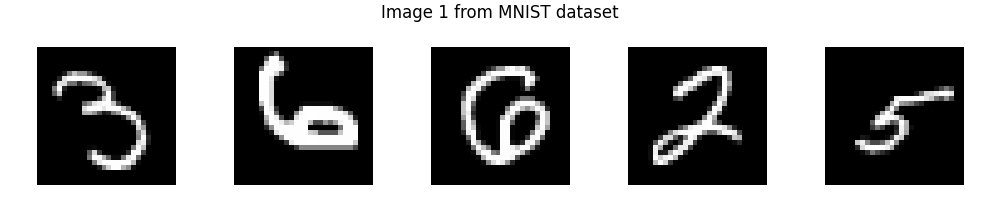
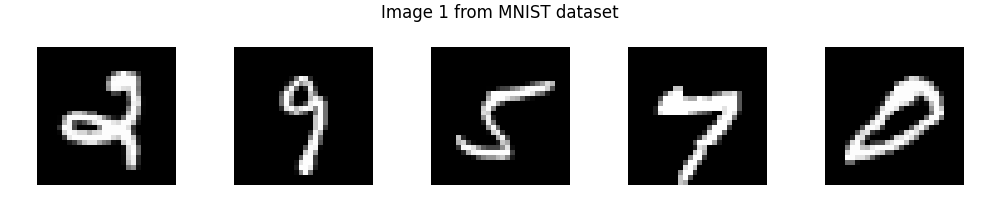
NRT DCGans without and with wassterstein

diff --git a/NRT/NRT_GANs/test.py b/NRT/NRT_GANs/test.py
@@ -759,6 +759,162 @@ def test_cgan_gan_mnist():
     plt.close()
 
 
+def test_dcgan_mnist():
+    """
+    Test DCGAN on MNIST dataset with default loss function
+    
+    This function initializes a DCGAN with default configuration,
+    and tests its forward pass and loss computation,
+    and then verify the sampling (with ema)
+    """
+    print("Loading MNIST dataset...")
+    mnist_loader = load_mnist(batch_size=128, downsample=(16, 16), normalize=True, flatten=False, train=True)
+
+    # Plot real data distribution
+    # first_numbers = next(iter(mnist_loader))[0][:5]  # Get the first 5 samples of the first batch
+    # print(first_numbers.shape)  # torch.Size([5, 1, 16, 16]) for 16x16 downsampled images
+    # plot_images(first_numbers, 5, save_path=os.path.join(MNIST_OUTPUT_DIR,"mnist_real.png"), title="Image 1 from MNIST dataset")
+
+    # Define GAN configuration
+    config = GANConfig(
+        architecture="DCGAN",
+        loss="Default",
+        latent_dim=32,
+        hidden_dims=[128, 64],
+        image_size=16,
+        image_channels=1,
+        kernel_size=4,
+        stride=2,
+        padding=1,
+        dropout=0.0,
+        batch_norm=True,
+        spectral_norm_on=False, # too slow otherswise for this test
+        learning_rate=2e-4,
+        step_size=20,
+        weight_decay=0.0,
+        beta1=0.5,
+        beta2=0.999,    
+        is_ema=False,
+        ema_decay=0.999
+    )
+    print("GAN configuration:")
+    print(config)
+    print()
+
+    # Initialize GAN
+    device = "cpu"
+    gan = GAN(config, device=device)
+    print("GAN Architecture:")
+    print(gan)
+    print()
+
+    # Train the model for a few epochs then plot the generated samples, then repeat the process
+    epochs = 6
+    nb_reps = 5
+    TEST_OUTPUT_DIR = os.path.join(MNIST_OUTPUT_DIR, "dcgan_mnist")
+    os.makedirs(TEST_OUTPUT_DIR, exist_ok=True)
+    G_losses = []
+    D_losses = []
+    for rep in range(nb_reps):
+        print(f"Training DCGAN on MNIST dataset - Rep {rep+1}/{nb_reps} - Epochs: {epochs*rep} to {epochs*(rep+1)}")
+        history = gan.fit(mnist_loader, epochs=epochs, verbose=False)
+        G_losses.extend([hist.G_loss for hist in history])
+        D_losses.extend([hist.D_loss for hist in history])
+        samples = gan.sample(5).numpy()
+        plot_images(samples, 5, save_path=os.path.join(TEST_OUTPUT_DIR,f"mnist_gen_rep{rep+1}.png"), title=f"Generated Images from DCGAN - Rep {rep+1}")
+        print()
+
+    # Plot loss history
+    plt.figure()    
+    plt.plot(G_losses, label="Generator Loss", color='red')
+    plt.plot(D_losses, label="Discriminator Loss", color='blue')
+    plt.legend()
+    plt.title("DCGAN Loss History on MNIST dataset")
+    plt.xlabel("Epochs")
+    plt.ylabel("Loss")
+    plt.savefig(os.path.join(TEST_OUTPUT_DIR,"loss_history.png"))
+    plt.close()
+
+
+def test_dcgan_wasserstein_mnist():
+    """
+    Test DCGAN on MNIST dataset with wasserstein loss function and gradient penalty
+
+    This function initializes a DCGAN with wasserstein loss and gradient penalty configuration,
+    and tests its forward pass and loss computation,
+    and then verify the sampling (without ema)
+    """
+    print("Loading MNIST dataset...")
+    mnist_loader = load_mnist(batch_size=128, downsample=(16, 16), normalize=True, flatten=False, train=True)
+
+    # Plot real data distribution
+    # first_numbers = next(iter(mnist_loader))[0][:5]  # Get the first 5 samples of the first batch
+    # print(first_numbers.shape)  # torch.Size([5, 256]) for 16x16 downsampled images
+    # plot_images(first_numbers, 5, save_path=os.path.join(MNIST_OUTPUT_DIR,"mnist_real.png"), title="Image 1 from MNIST dataset")
+
+    # Define GAN configuration
+    config = GANConfig(
+        architecture="DCGAN",
+        loss="Wasserstein",
+        latent_dim=32,
+        hidden_dims=[128, 64],
+        image_size=16,
+        image_channels=1,
+        kernel_size=4,
+        stride=2,
+        padding=1,
+        weight_clip=0.01,
+        gradient_penalty_lambda=10.0,
+        n_critic=5,
+        dropout=0.0,
+        batch_norm=True,
+        spectral_norm_on=False, # too slow otherswise for this test
+        learning_rate=1e-4,
+        step_size=20,
+        weight_decay=0.0,
+        beta1=0.0,
+        beta2=0.9,
+        is_ema=False,
+        ema_decay=0.999
+    )
+    print("GAN configuration:")
+    print(config)
+    print()
+
+    # Initialize GAN
+    device = "cpu"
+    gan = GAN(config, device=device)
+    print("GAN Architecture:")
+    print(gan)
+
+    # Train the model for a few epochs then plot the generated samples, then repeat the process
+    epochs = 1
+    nb_reps = 5
+    TEST_OUTPUT_DIR = os.path.join(MNIST_OUTPUT_DIR, "dcgan_wgan_mnist")
+    os.makedirs(TEST_OUTPUT_DIR, exist_ok=True)
+    G_losses = []
+    D_losses = []
+    for rep in range(nb_reps):
+        print(f"Training DCGAN with Wasserstein loss and gradient penalty on MNIST dataset - Rep {rep+1}/{nb_reps} - Epochs: {epochs*rep} to {epochs*(rep+1)}")
+        history = gan.fit(mnist_loader, epochs=epochs, verbose=False)
+        G_losses.extend([hist.G_loss for hist in history])
+        D_losses.extend([hist.D_loss for hist in history])
+        samples = gan.sample(5).numpy()
+        plot_images(samples, 5, save_path=os.path.join(TEST_OUTPUT_DIR,f"mnist_gen_rep{rep+1}.png"), title=f"Generated Images from DCGAN Wasserstein GAN - Rep {rep+1}")
+        print()
+
+    # Plot loss history
+    plt.figure()
+    plt.plot(G_losses, label="Generator Loss", color='red')
+    plt.plot(D_losses, label="Discriminator Loss", color='blue')
+    plt.legend()
+    plt.title("DCGAN with Wasserstein loss and gradient penalty Loss History on MNIST dataset")
+    plt.xlabel("Epochs")
+    plt.ylabel("Loss")
+    plt.savefig(os.path.join(TEST_OUTPUT_DIR,"loss_history.png"))
+    plt.close()
+
+
 if __name__ == "__main__":
     print_section("Testing Generator and Discriminator architectures")
 
@@ -783,6 +939,10 @@ if __name__ == "__main__":
 
     print_subsection("Testing CGAN on MNIST dataset")
     # test_cgan_gan_mnist()
+
+    print_subsection("Testing DCGAN on MNIST dataset")
+    # test_dcgan_mnist()
+    # test_dcgan_wasserstein_mnist()
     
     print("All tests completed successfully!")
     # clear_data_dir()